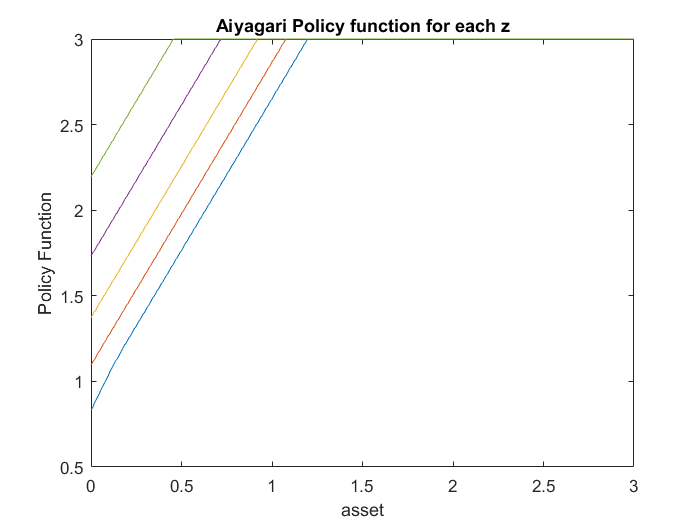
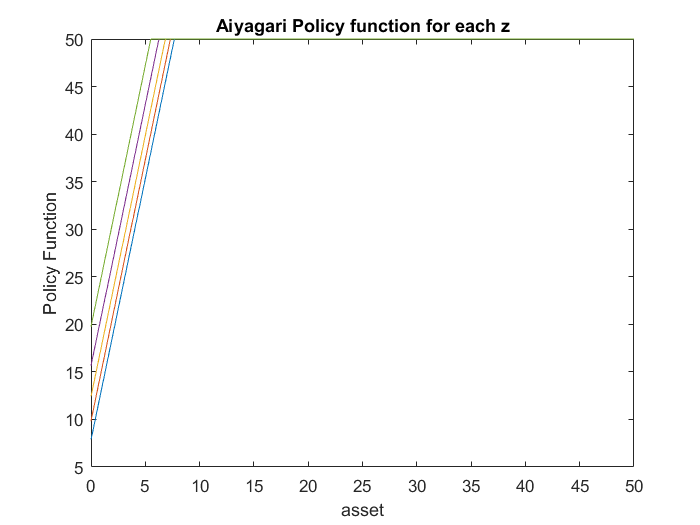
updt

diff --git a/Q7 - VFI with a coarse grid.m b/Q7 - VFI with a coarse grid.m
@@ -20,18 +20,19 @@ m= 5;
 P1=P^100; 
  Pinv = P1(1,:)';
 %agregate invariate labor 
-Ns=exp(zgrid*Pinv);
 zgrid=exp(zgrid);
+Ns=(zgrid*Pinv);
+
 
 %discretizing the assets
 a_lo=a_bar;
-a_hi = 60;%upper bound of grid points
+a_hi = 80;%upper bound of grid points
 num_a = 500; %500;
 a = linspace(a_lo, a_hi, num_a); % asset (row) vector
 
 % INITIAL GUESS FOR CAPITAL
 K_min=0;
-K_max=150;
+K_max=100;
 K_guess=(K_min + K_max) / 2;
 
 n=1;
@@ -43,7 +44,7 @@ while abs(MarkClear) >= 0.01 ;
     
     % CURRENT RETURN (UTILITY) FUNCTION
     cons = bsxfun(@minus, a', r * a);
-    cons = bsxfun(@plus, cons, permute(zgrid, [1 3 2])*w);
+    cons = bsxfun(@plus, cons, permute(zgrid, [1 3 2]).*w);
     ret = (cons .^ (1-sigma)) ./ (1 - sigma); % current period utility
   
 % negative consumption is not possible -> make it irrelevant by assigning
@@ -80,24 +81,23 @@ ret(cons < 0) = -Inf;
  
    
  % SET UP INITITAL DISTRIBUTION
-   Mu = (1/(2*num_a))*ones(2,num_a);
-    %need to do this until is stationary distribution 
-    Mu_tol   = 1;
-    while Mu_tol > 1e-8;   
-    % ITERATE OVER DISTRIBUTIONS
+Mu = zeros(m,num_a);
+Mu(1, 4) = 1; % initial guess: everyone employed, 0 assets
+
+% ITERATE OVER DISTRIBUTIONS
+mu_tol = 1;
+while mu_tol > 1e-08
     [emp_ind, a_ind] = find(Mu > 0); % find non-zero indices
-        
-          MuNew = zeros(size(Mu));
+    
+    MuNew = zeros(size(Mu));
     for ii = 1:length(emp_ind)
-        apr_ind = pol_indx(emp_ind(ii), a_ind(ii)); % which a prime does the policy fn prescribe?
-        MuNew(:, apr_ind) = MuNew(:, apr_ind) + ... % which mass of households goes to which exogenous state?
-            (PI(emp_ind(ii), :) * Mu(emp_ind(ii), a_ind(ii)))';
+        apr_ind = pol_indx(emp_ind(ii), a_ind(ii)); 
+        MuNew(:, apr_ind) = MuNew(:, apr_ind) + ...
+            (P(emp_ind(ii), :) * Mu(emp_ind(ii), a_ind(ii)) )';
     end
-        
-        Mu_tol   = max(abs(MuNew(:)-Mu(:)));
-        Mu= MuNew;
-        
-    end
+    mu_tol = max(abs(MuNew(:) - Mu(:)));   
+    Mu = MuNew ;
+end
    
     aggK= sum( g(:) .* Mu(:) ); 
     
@@ -123,72 +123,3 @@ K_guess = (K_min + K_max)/2 ;
 display (' ') ;
     n=n+1;
 end
-
-% analizing the results 
-
-%plot the policy function:
-
-plot(a,g)
-xlabel('asset') 
-ylabel('Policy Function')
-title('Aiyagari Policy function for each z')
-
-
-
-% Plot the Lorenz curve and compute the wealth gini
-%aggregate income
-%income of each possible z person is 
- income_z1 = r*a+zgrid(1)*w;
- income_z2 = r*a+zgrid(2)*w;
- income_z3 = r*a+zgrid(3)*w;
- income_z4 = r*a+zgrid(4)*w;
- income_z5 = r*a+zgrid(5)*w;
-  %multiply by distribution
-  Income = [income_z1 income_z2 income_z3 income_z4 income_z5].*Mu(:)';
-  
-  %summing total income and sorting income
-  TotalIncome=sum(Income(:));
- [Income sort] = sort(Income);
- %get the percentage 
- perc = Income/TotalIncome;
- %population percentage given by the stationary distribution
- pop = Mu(:)';
- pop = pop(sort);
- %cumulative sum population percentage and percentage of income
- for i = 2:length(Income)
-     perc(i) = perc(i)+perc(i-1);
-     pop(i) = pop(i)+pop(i-1);
- end
- 
- plot([0 1],[0 1],'r',pop,perc,'--','Linewidth',1);
- title('Lorenz Curve')
- xlabel('Cumulative Share from Lowest to Highest Income') 
-ylabel('Cumulative Share of Income')
-legend({'Equality line','Lorenz Curve'},'Location','southeast')
-
-%gini
-perc = cumsum( (wealth_dist(:,2) ./ agg_wealth) .* wealth_dist(:,1) );
-gini = 1 - sum( ([0; perc(1:end-1)] + perc) .* wealth_dist(:,1) );
-
-display (['Gini coefficient of ', num2str(gini)]);
-
-%Lorenzcurve
-
-%population percentage given by the stationary distribution
- pop = Mu(:)';
- pop = pop(ordr);
- %cumulative sum population percentage and percentage of income
- for i = 2:length(Income)
-     perc(i) = perc(i)+perc(i-1);
-     pop(i) = pop(i)+pop(i-1);
- end
- 
- 
- plot([0 1],[0 1],'r',pop,perc,'--','Linewidth',1);
- title('Lorenz Curve')
- xlabel('Cumulative Share from Lowest to Highest Income') 
-ylabel('Cumulative Share of Income')
-legend({'Equality line','Lorenz Curve'},'Location','southeast')
-
-
-
